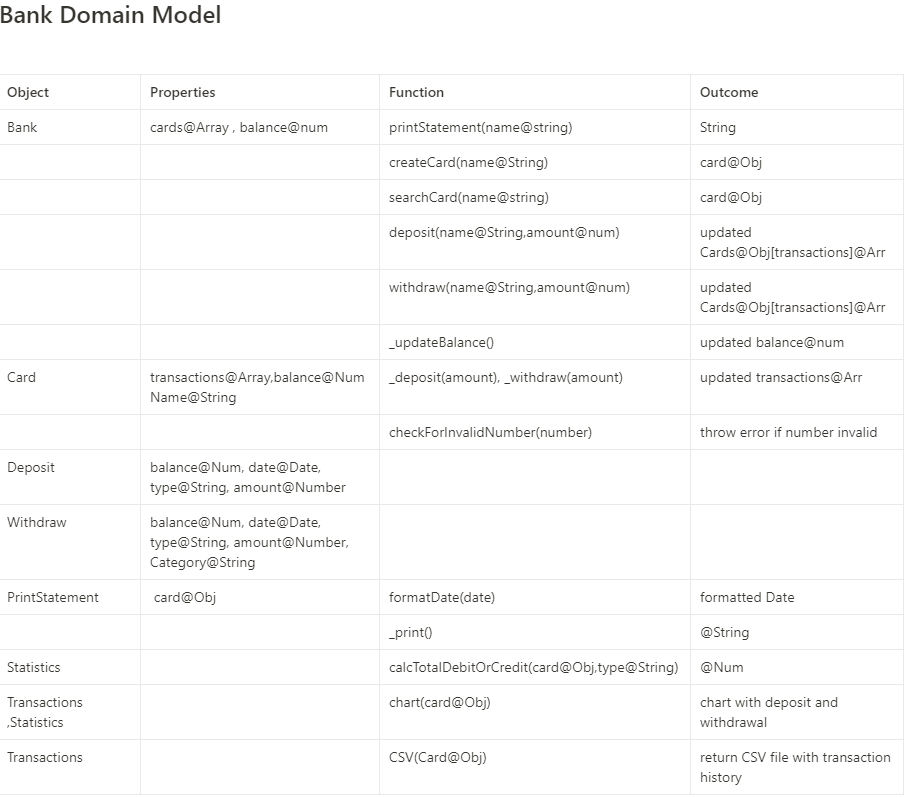
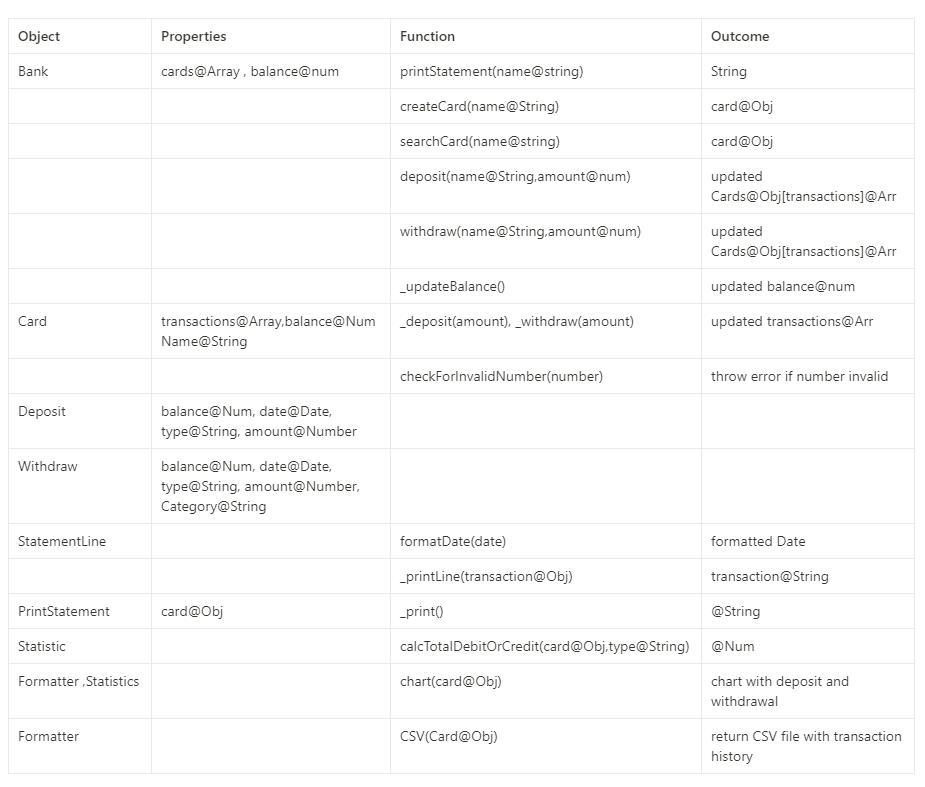
add printLine class

diff --git a/src/PrintStatement.js b/src/PrintStatement.js
@@ -1,36 +1,19 @@
+const StatementLine = require("./StatementLine.js");
+const Withdraw = require("./Withdraw.js");
+
 class PrintStatement {
   constructor(card) {
     this.card = card;
     this.formatDate();
   }
-
-  formatDate(currDate) {
-    let date = new Date(currDate);
-    let year = date.getFullYear();
-    let month = String(date.getMonth() + 1).padStart(2, "0");
-    let day = String(date.getDate()).padStart(2, "0");
-    return day + "/" + month + "/" + year;
-  }
-
   _print() {
     let printStatementArr = this.card.transactions
       .sort(function (a, b) {
         return new Date(b.date) - new Date(a.date);
       })
       .map((transaction) => {
-        let statementLine = `${this.formatDate(transaction.date)}  ||`;
-        statementLine +=
-          transaction.type === "withdraw"
-            ? ` ${String(transaction.amount.toFixed(2)).padEnd(
-                9,
-                " "
-              )} ||           ||`
-            : `           || ${String(transaction.amount.toFixed(2)).padEnd(
-                10,
-                " "
-              )}||`;
-        statementLine += ` ${transaction.balance.toFixed(2)}\n`;
-        return statementLine;
+        const newLine = new StatementLine();
+        return newLine._printLine(transaction);
       })
       .reverse()
       .join("");

diff --git a/src/StatementLine.js b/src/StatementLine.js
@@ -1,0 +1,27 @@
+class StatementLine {
+  formatDate(currDate) {
+    let date = new Date(currDate);
+    let year = date.getFullYear();
+    let month = String(date.getMonth() + 1).padStart(2, "0");
+    let day = String(date.getDate()).padStart(2, "0");
+    return day + "/" + month + "/" + year;
+  }
+
+  _printLine(transaction) {
+    let statementLine = `${this.formatDate(transaction.date)}  ||`;
+    statementLine +=
+      transaction.type === "withdraw"
+        ? ` ${String(transaction.amount.toFixed(2)).padEnd(
+            9,
+            " "
+          )} ||           ||`
+        : `           || ${String(transaction.amount.toFixed(2)).padEnd(
+            10,
+            " "
+          )}||`;
+    statementLine += ` ${transaction.balance.toFixed(2)}\n`;
+    return statementLine;
+  }
+}
+
+module.exports = StatementLine;

diff --git a/src/Bank.js b/src/Bank.js
@@ -2,7 +2,6 @@
 
 const Card = require("./Card.js");
 const PrintStatement = require("./printStatement.js");
-const Transactions = require("./Transactions.js");
 
 class Bank {
   cards = [];
@@ -43,3 +42,10 @@ class Bank {
 }
 
 module.exports = Bank;
+
+const bank = new Bank();
+bank.createCard("Tibor");
+
+bank.deposit("Tibor", 1000);
+
+console.log(bank.printStatement("Tibor"));

diff --git a/src/Formatter.js b/src/Formatter.js
@@ -1,7 +1,7 @@
 var fs = require("fs");
 const Statistic = require("./Statistic.js");
 
-class Transactions {
+class Formatter {
   CSV(card) {
     let csvContent = card.name + "," + "";
 
@@ -25,4 +25,4 @@ class Transactions {
   }
 }
 
-module.exports = Transactions;
+module.exports = Formatter;
